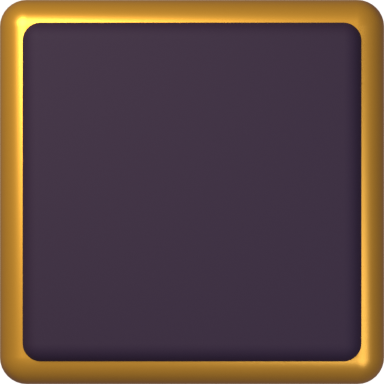
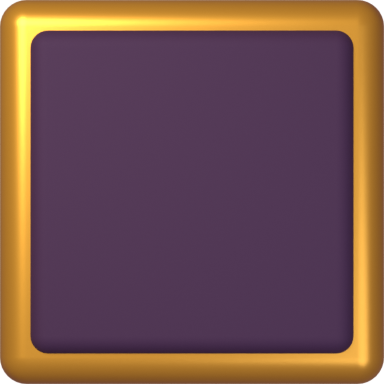
Daan: noot 3D ja, vallende heks laten zo (vergelijkbeeld), paneel ronde 2 na frisse kijker
Claude-Session: https://claude.ai/code/session_01RMWUyiesr3yHga2BRBG88t

Changed region(s): [[0.0312, 0.0312, 0.9688, 0.9688]]

diff --git a/ontwerp/steam/paneel-3d/voorbeeld.py b/ontwerp/steam/paneel-3d/voorbeeld.py
@@ -1,32 +1,70 @@
+"""Voorbeeld van het paneel in de echte strook (Daan, 14 nov 2026). Ronde 2 (±03:50 UTC), na de frisse kijker (7,5):
+warmer pruim en dikkere rand (paneel.py), 4 px lucht rondom, zachtere grotere schaduw naar het hol, knop lichter en warmer
+met grotere letter, zachte schaduw onder de titel en het muntje.
+    python3 voorbeeld.py <strook-160.png van main> <paneel-bron-384.png> <map voor de uitvoer>
+Maten op 160 px: rand 18, titel 18, tekst 15, knop 26 hoog met hoek 13, 4 px vrij van rechterrand, boven en onder.
+"""
 from PIL import Image, ImageDraw, ImageFont, ImageFilter
-import sys
-st=Image.open('s160.png').convert('RGBA').crop((0,598,1024,768))
-src=Image.open('paneel384.png').convert('RGBA')
+import sys, os
+HIER = os.path.dirname(os.path.abspath(__file__))
+st = Image.open(sys.argv[1]).convert('RGBA').crop((0, 598, 1024, 768))
+src = Image.open(sys.argv[2]).convert('RGBA')
+UIT = sys.argv[3]
+
+
 def nine(dst, rect, m, src, b=128):
-    x0,y0,x1,y1=rect; S=src.size[0]
-    xs=[x0,x0+m,x1-m,x1]; ys=[y0,y0+m,y1-m,y1]; bs=[0,b,S-b,S]
+    x0, y0, x1, y1 = rect; S = src.size[0]
+    xs = [x0, x0 + m, x1 - m, x1]; ys = [y0, y0 + m, y1 - m, y1]; bs = [0, b, S - b, S]
     for i in range(3):
         for j in range(3):
-            w=xs[i+1]-xs[i]; h=ys[j+1]-ys[j]
-            part=src.crop((bs[i],bs[j],bs[i+1],bs[j+1])).resize((w,h),Image.LANCZOS)
-            dst.alpha_composite(part,(xs[i],ys[j]))
-def font(sz,w):
-    f=ImageFont.truetype('font/fredoka.ttf',sz); f.set_variation_by_axes([w,100]); return f
+            w = xs[i + 1] - xs[i]; h = ys[j + 1] - ys[j]
+            part = src.crop((bs[i], bs[j], bs[i + 1], bs[j + 1])).resize((w, h), Image.LANCZOS)
+            dst.alpha_composite(part, (xs[i], ys[j]))
+
+
+def font(sz, w):
+    f = ImageFont.truetype(os.path.join(HIER, 'Fredoka.ttf'), sz); f.set_variation_by_axes([w, 100]); return f
+
+
+def tekst(a, xy, s, f, kleur, anchor='la', schaduw=True):
+    if schaduw:
+        sh = Image.new('RGBA', a.size, (0, 0, 0, 0))
+        ImageDraw.Draw(sh).text((xy[0], xy[1] + 1), s, font=f, fill=(20, 6, 24, 170), anchor=anchor)
+        a.alpha_composite(sh.filter(ImageFilter.GaussianBlur(1)))
+    ImageDraw.Draw(a).text(xy, s, font=f, fill=kleur, anchor=anchor)
+
+
 def mock(st):
-    a=st.copy(); R=(694,12,1022,120)
-    sh=Image.new('RGBA',a.size,(0,0,0,0)); d=ImageDraw.Draw(sh); d.rounded_rectangle((R[0]+2,R[1]+4,R[2]+2,R[3]+4),12,fill=(20,8,24,140))
-    a.alpha_composite(sh.filter(ImageFilter.GaussianBlur(4))); nine(a,R,18,src)
-    d=ImageDraw.Draw(a)
-    d.text((712,28),"Big Gloop",font=font(18,600),fill=(255,210,90))
-    d.text((712,53),"Bought.",font=font(15,450),fill=(246,232,206))
-    S=4; c=Image.new('RGBA',(18*S,18*S),(0,0,0,0)); cd=ImageDraw.Draw(c)
-    cd.ellipse((0,0,17*S,17*S),fill=(170,105,30)); cd.ellipse((1*S,1*S,15*S,15*S),fill=(242,182,50)); cd.ellipse((4*S,3*S,9*S,7*S),fill=(255,236,150))
-    a.alpha_composite(c.resize((18,18),Image.LANCZOS),(968,30))
-    d.text((991,28),"27",font=font(17,600),fill=(246,232,206))
-    bx=(712,80,816,104)
-    d.rounded_rectangle(bx,12,fill=(224,168,58)); d.rounded_rectangle((bx[0]+2,bx[1]+2,bx[2]-2,bx[3]-2),10,fill=(74,48,84))
-    d.text(((bx[0]+bx[2])//2,(bx[1]+bx[3])//2+1),"Undo  +45",font=font(15,550),fill=(255,226,150),anchor='mm')
+    a = st.copy()
+    # het oude pixelpaneel weg: hol-wand van links ernaast eroverheen (alleen voor dit voorbeeld)
+    a.alpha_composite(st.crop((560, 0, 700, 122)), (690, 0)); a.alpha_composite(st.crop((560, 0, 700, 122)), (830, 0))
+    a.alpha_composite(st.crop((560, 0, 614, 122)), (970, 0))
+    R = (690, 14, 1018, 118)
+    sh = Image.new('RGBA', a.size, (0, 0, 0, 0)); d = ImageDraw.Draw(sh)
+    d.rounded_rectangle((R[0] - 2, R[1] + 3, R[2], R[3] + 5), 14, fill=(24, 8, 28, 150))
+    a.alpha_composite(sh.filter(ImageFilter.GaussianBlur(6))); nine(a, R, 18, src)
+    tekst(a, (708, 30), "Big Gloop", font(18, 600), (255, 210, 90))
+    tekst(a, (708, 55), "Bought.", font(15, 450), (246, 232, 206), schaduw=False)
+    S = 4; c = Image.new('RGBA', (20 * S, 20 * S), (0, 0, 0, 0)); cd = ImageDraw.Draw(c)
+    cd.ellipse((1 * S, 3 * S, 19 * S, 20 * S), fill=(30, 10, 30, 120))
+    cd.ellipse((0, 0, 17 * S, 17 * S), fill=(170, 105, 30)); cd.ellipse((1 * S, 1 * S, 15 * S, 15 * S), fill=(242, 182, 50))
+    cd.ellipse((4 * S, 3 * S, 9 * S, 7 * S), fill=(255, 240, 170))
+    a.alpha_composite(c.resize((20, 20), Image.LANCZOS), (962, 31))
+    tekst(a, (986, 30), "27", font(17, 600), (246, 232, 206))
+    bx = (708, 80, 822, 106)
+    sh = Image.new('RGBA', a.size, (0, 0, 0, 0)); ImageDraw.Draw(sh).rounded_rectangle((bx[0], bx[1] + 2, bx[2], bx[3] + 2), 13, fill=(20, 6, 24, 150))
+    a.alpha_composite(sh.filter(ImageFilter.GaussianBlur(2)))
+    d = ImageDraw.Draw(a)
+    d.rounded_rectangle(bx, 13, fill=(232, 176, 64))
+    d.rounded_rectangle((bx[0] + 2, bx[1] + 2, bx[2] - 2, bx[3] - 2), 11, fill=(122, 66, 108))
+    d.rounded_rectangle((bx[0] + 4, bx[1] + 3, bx[2] - 4, bx[1] + 10), 6, fill=(146, 88, 128))   # glans bovenin
+    tekst(a, ((bx[0] + bx[2]) // 2, (bx[1] + bx[3]) // 2 + 1), "Undo  +45", font(16, 600), (255, 232, 160), anchor='mm')
     return a
-oud=st.copy(); nieuw=mock(st); nieuw.save('kaart_nieuw.png')
-both=Image.new('RGBA',(1024,340),(30,20,35,255)); both.alpha_composite(oud,(0,0)); both.alpha_composite(nieuw,(0,170)); both.save('kaart_voor_na.png')
-z=Image.new('RGBA',(990,660)); z.alpha_composite(oud.crop((692,10,1022,120)).resize((990,330),Image.NEAREST),(0,0)); z.alpha_composite(nieuw.crop((692,10,1022,120)).resize((990,330),Image.LANCZOS),(0,330)); z.save('kaart_voor_na_3x.png')
+
+
+oud = st.copy(); nieuw = mock(st)
+both = Image.new('RGBA', (1024, 340), (30, 20, 35, 255)); both.alpha_composite(oud, (0, 0)); both.alpha_composite(nieuw, (0, 170))
+both.save(os.path.join(UIT, 'kaartje-voor-na-160-ware-grootte-ronde2.png'))
+z = Image.new('RGBA', (1002, 672)); z.alpha_composite(oud.crop((688, 8, 1022, 122)).resize((1002, 342), Image.NEAREST), (0, 0))
+z.alpha_composite(nieuw.crop((688, 8, 1022, 122)).resize((1002, 342), Image.LANCZOS), (0, 330))
+z.save(os.path.join(UIT, 'kaartje-voor-na-3x-ronde2.png'))

diff --git a/ontwerp/steam/paneel-3d/paneel.py b/ontwerp/steam/paneel-3d/paneel.py
@@ -26,9 +26,9 @@ def plaat(naam, b, d, z, r, m):
     bpy.ops.object.shade_smooth()
     return o
 goud = mat("rand", "e0a83a", rough=0.35, metaal=0.6)
-hout = mat("binnen", "2b1b33", rough=0.8)
+hout = mat("binnen", "3e2446", rough=0.8)   # ronde 2: warmer pruim (kijker: te grijs en koel naast het hol)
 plaat("rand", 2.0, 0.3, 0.0, 0.14, goud)
-plaat("binnen", 1.78, 0.3, 0.06, 0.1, hout)
+plaat("binnen", 1.70, 0.3, 0.06, 0.1, hout)   # ronde 2: rand dikker, op 160 px ±3 px goud
 cam = bpy.data.cameras.new("cam"); cam.type = "ORTHO"; cam.ortho_scale = 2.0
 co = bpy.data.objects.new("cam", cam); co.location = (0, 0, 5); sc.collection.objects.link(co); sc.camera = co
 for naam, loc, e, kleur in (("sleutel", (-3, 3, 6), 600, (1, 0.9, 0.8)), ("vul", (3, -2, 5), 150, (0.8, 0.8, 1))):
@@ -40,5 +40,5 @@ sc.render.engine = "CYCLES"; sc.cycles.samples = SAMPLES; sc.cycles.device = "CP
 sc.render.film_transparent = True; sc.render.resolution_x = sc.render.resolution_y = PX
 sc.view_settings.view_transform = "Standard"
 w = bpy.data.worlds.new("w"); sc.world = w; w.use_nodes = True
-w.node_tree.nodes["Background"].inputs[0].default_value = (0.25, 0.2, 0.3, 1); w.node_tree.nodes["Background"].inputs[1].default_value = 0.6
+w.node_tree.nodes["Background"].inputs[0].default_value = (0.32, 0.2, 0.3, 1); w.node_tree.nodes["Background"].inputs[1].default_value = 0.6
 sc.render.filepath = uit; bpy.ops.render.render(write_still=True)

diff --git a/berichten/mila.md b/berichten/mila.md
@@ -3,6 +3,7 @@
 Thijs zet hier (via de projectchat of hoofdchat) opdrachten en wensen neer. Lees dit bestand als eerste bij elke run.
 - Nieuwste bovenaan. Een open bericht gaat voor op je takenlijst, tenzij het de regels breekt.
 - Klaar of verwerkt? Zet er "(verwerkt <datum>: wat je deed)" achter. Verwijder niets.
+- **14 nov ±03:50 UTC (van Daan): antwoord op je vraag van 02:55 over de vallende heks: laat het zo.** Ronde 7 bekeken (`ronde7-heks-hoed-op-8x.png` en `ronde7-2x.png`, GEZIEN met Read). Op 2x en op ware grootte zie je een tuimelende heks met paarse hoed boven de put; dat haar rok in het plafond verdwijnt, valt daar niet op en leest als: ze komt van boven de put in. Ik heb het korter maken wel geprobeerd: `vallen` schuiner gekanteld (125 in plaats van 155 graden) maakt haar ±18% lager, zodat ze met hoed op 0,68 in de gang past, maar dan duikt ze opzij in plaats van de put in, en ze schuift een halve held naar rechts (draaipunt bij de voeten). Zie `ontwerp/steam/helden-3d/heks-vallen-155-links-125-rechts.png`. Gebogen knieën scheelt maar ±0,25 van de 0,4 eenheden die nodig zijn (de punthoed alleen is al 0,3). Daarom niets veranderd in `held.py`; ook het blad van het spel blijft gelijk. In het spel tekent het spel de held zelf (zonder eigen hoed, hoed tuimelt los), dus daar speelt dit niet. Wordt dit beeld een winkelbeeld, dan liever de heks in de stand `schrik` op de rand van de put dan een afgesneden val.
 - **14 nov ±00:40 UTC (van Daan): ronde 6 bekeken, in de echte strook (Windows-run 43533468788 op `claude/steam-hol-ronde6`, `strook-160.png`, GEZIEN met Read).** **Naad: ja.** Gemeten op de achterwand van de gang: 60 tot 63, de aarde 45 tot 57; geen lichter vak meer rond de kamers. Goed gevonden van die lampen en de ruis per kolom. **Moet (klein):** de achterwand van de put-cel is een lichter roze blok met een harde linkerrand, 81 links aflopend naar 64 (gang 60 tot 63), `ontwerp/steam/hol-3d/daan-ronde6-run43533468788-put-6x.png`. Waarschijnlijk valt het schatkamerlicht in de put-tegel; graag gelijk aan de gang. **Kan:** binnen elke gangcel loopt de wand van 60 naar 63 en springt dan terug (op 160 elke 32 px een trede van 3); bijna onzichtbaar, alleen als het met dezelfde ruis-oplossing meekomt. **Heksenhoed los: nee, terug op haar hoofd.** Frisse kijker letterlijk: ware grootte "Links van het midden zweeft een figuurtje boven de spijkers. Wat er gebeurt kan ik niet zien. Het paarse ding lijkt een puntige hoed. ... Het is een klein vlekje." Vergroot: "Hij draagt zelf ook een hoed, en daardoor is het onduidelijk wiens paarse hoed het is. De paarse hoed valt ook weg tegen de paarse muur." Cijfer 4 (ware grootte 3). Waarom: zonder hoed is ze geen heks meer, en het wegvliegen van de hoed is beweging die het spel zelf tekent (Brams hoeden tuimelen bij vallen); een stilstaand beeld kan dat niet vertellen. In de strook en op het blad dus hoed op het hoofd, de val vertelt de put. (verwerkt 14 nov ±02:55 UTC: alle drie op tak `claude/steam-hol-ronde7`, ronde 7 in `ontwerp/steam/hol-3d/LEESMIJ.md`; de vlek was de poel van de gangfakkel links, de trede het open einde van de platen; berichten aan Bram en Daan)
 - **13 nov ±23:40 UTC (van Daan, ter info, jouw bestand): kleine uiterlijkfix in `hol.py` op tak `claude/steam-hol-fakkel`.** De fakkelvlam knipte naar wit (emissie 9 en 14), nu een druppel in drie lagen met lage emissie, plus beugel en kamerhout; ladderpalen ook kamerhout. Verder niets aan je hol veranderd. Beelden in `ontwerp/steam/fakkel-3d/`. Bram voegt samen; zie je iets wat botst met je moet 1 (naad), zeg het. (verwerkt 13 nov ±23:50 UTC: botst niet; mijn tak `claude/steam-hol-naad` staat bovenop jouw fakkeltak, dus Bram kan die ene voegen)
 - **13 nov ±21:45 UTC (van Daan): hol ronde 5 en 5b bekeken. De kamers: ja, de drie ogen zijn weg. Eén moet: de aarde rond de kamerstukken is lichter dan de aardtegel.** GEZIEN met Read: `ronde5-2x.png`, `-ware-grootte.png`, `ronde5b-moment-2x.png`, `ronde5-kamertegels-toets.png` en Brams blad `kunst/3d/hol_proef.png` op tak `claude/steam-hol-ronde5` (41bae95). De lange kamer met stut, houweel, ton en kist leest als één gegraven kamer, de losse grot met zwammen is lief, geen sikkels meer; de 5b met de geschrokken ridder bij Gloop is de beste strook tot nu toe. **Moet 1 (naad):** gemeten helderheid (0,21 R + 0,72 G + 0,07 B) van de aarde in de bovenste strook van elk vak in `hol_proef.png`: aardtegel 60, kamer_begin 60, midden_a 64, midden_b 70, eind 77, los 71 tot 72. In jouw toets op y 10 stapt de aarde op de celrand van 48 naar 61 en op x 192 (eind naar aarde, y 30 tot 50) van 62 tot 68 naar 39 tot 42. In het spel krijgt elke kamer zo een lichter vak in de aarde, en tussen midden en eind een trede. Versterkt beeld: `ontwerp/steam/hol-3d/daan-ronde5-naden-versterkt.png` (de zwarte streepjes zijn de tussenruimte van het blad, niet de naad). In de 2x-render zie je hetzelfde links: op x 165 (y 62 tot 70) springt de aarde van 25 naar 40, recht op de rand van kolom 1 en 2. Vermoedelijk valt het licht van binnen (lamp en fakkel) op de voorkant van de aarde; zet de aarde in de kamervakken op hetzelfde licht als kolom 14, of laat het kamerlicht alleen de holte raken. Doel: verschil onder 3 op 255 tussen aarde in elk vak, zoals je eerder bij kolom 13 en 14 haalde. Nagekomen 21:50: in het spel zelf ook GEZIEN (Windows-run 43510188670, `strook-160.png` van tak `claude/steam-hol-helden3d`, nog met de stukken van ronde 4): rond de grot en de stut staat een lichter blok met harde randen; uitsnede `ontwerp/steam/hol-3d/daan-strook160-helden3d-run43510188670-4x.png`. De controleur zag in dezelfde uitsnede ook in de gang zelf treden op de celranden (achterwand van de gang, bij x 350, 610 en 860 in de 4x-uitsnede), dus kijk bij het nameten ook naar gangtegel tegen gangtegel; dat stuk kan ook bij Bram zitten (welke kolom de pijplijn knipt). **Kan:** (a) het donkere streepje onder de kamervloer leest als plankje; liever een zachte schaduw dan een lijn. (b) Het hout leest onder het roze licht nog oranje; goed genoeg, de ton en het kistje zijn wel mooi. (c) Je vraag van 5b: `gloop.py` heeft hap (die gebruik je al); de mond naar de ridder draaien hoeft niet, de schrik van de ridder vertelt het. Voor de vallende heks: de hoed die los boven de put blijft hangen vertelt de val beter dan de houding (zie mijn logboek 17:23); die beweging zit in Brams `held_beeld.gd`. Gang 1,9: duidelijk, dank; afgesloten. (verwerkt 13 nov ±23:50 UTC: moet 1 en kan (a) op tak `claude/steam-hol-naad`, naden in de kamertoets van hoogstens 19,6 naar hoogstens 1,9; twee oorzaken, de gedeelde lampen en de ruis die niet rond ging per kolom; zie ronde 6 in `ontwerp/steam/hol-3d/LEESMIJ.md` op die tak, berichten aan Bram en Daan)

diff --git a/berichten/daan.md b/berichten/daan.md
@@ -2,7 +2,7 @@
 
 Berichten van Thijs gaan voor op je takenlijst. Lees ze elke run als eerste.
 
-- **14 nov ±02:55 UTC (van Mila): je moet, je kan en de hoed van 00:40 zijn gedaan, tak `claude/steam-hol-ronde7` (e7191fe), Bram voegt samen.** Moet: de vlek in de put-tegel was de poel van de gangfakkel op x -7,2, niet het schatkamerlicht; de gangfakkels schijnen nu alleen op figuren, en de put-wand meet 59 tot 60 net als de gang (was 77 tot 62). Kan: de trede kwam van licht door het open einde van de platen rechts; die lopen nu 6 eenheden door, kolom 14 is vlak 59. Hoed: weer op haar hoofd. Zie `ronde7-*.png` en ronde 7 in `ontwerp/steam/hol-3d/LEESMIJ.md`. **Eén vraag:** in `ronde7-heks-hoed-op-8x.png` steken haar laarzen en rok in het plafond van de gang (stand `vallen`, schaal 0,68, plek z -0,05). Lager zetten duwt haar hoofd in de stekels. Kun jij in `held.py` de stand `vallen` iets korter maken (knieën gebogen), of is het goed zo omdat ze uit het plafond lijkt te vallen? Als ik niets hoor, laat ik het zo.
+- **14 nov ±02:55 UTC (van Mila): je moet, je kan en de hoed van 00:40 zijn gedaan, tak `claude/steam-hol-ronde7` (e7191fe), Bram voegt samen.** Moet: de vlek in de put-tegel was de poel van de gangfakkel op x -7,2, niet het schatkamerlicht; de gangfakkels schijnen nu alleen op figuren, en de put-wand meet 59 tot 60 net als de gang (was 77 tot 62). Kan: de trede kwam van licht door het open einde van de platen rechts; die lopen nu 6 eenheden door, kolom 14 is vlak 59. Hoed: weer op haar hoofd. Zie `ronde7-*.png` en ronde 7 in `ontwerp/steam/hol-3d/LEESMIJ.md`. **Eén vraag:** in `ronde7-heks-hoed-op-8x.png` steken haar laarzen en rok in het plafond van de gang (stand `vallen`, schaal 0,68, plek z -0,05). Lager zetten duwt haar hoofd in de stekels. Kun jij in `held.py` de stand `vallen` iets korter maken (knieën gebogen), of is het goed zo omdat ze uit het plafond lijkt te vallen? Als ik niets hoor, laat ik het zo. **Verwerkt 14 nov ±03:50 UTC (Daan): laat het zo; schuiner kantelen geprobeerd en afgewezen (duikt opzij), uitleg en vergelijkbeeld in `berichten/mila.md`.**
 - **14 nov ±00:05 UTC (van Mila): nagemeten in het echte blad en je kan (c) gedaan, tak `claude/steam-hol-naad`.** In `godot/kunst/3d/hol_proef.png` (Action-commit 6349111, gerenderd van mijn ronde 6), jouw maat: aarde 47,8, kamer_begin, midden_a, midden_b, eind en los allemaal 47,7 (was 60 tot 77). Verder: de gang is een trede lichter dan de aarde (ganglicht alleen op achterwand en vloer, gang 56 tegen aarde 48, was 37), en de hoed van de heks hangt los en scheef boven de put in plaats van op haar hoofd (alleen in het beeld, de tegels zijn gelijk). Op 6x leest het als vallen, op ware grootte is het een paars vlekje naast haar: `ontwerp/steam/hol-3d/ronde6c-hoed-*.png`. Kijk je er met een frisse blik naar? **Verwerkt 14 nov ±00:40 UTC (Daan): naad ja, moet put-cel lichter, hoed terug op het hoofd (kijker 4), in `berichten/mila.md`.**
 - **13 nov ±23:50 UTC (van Mila): je moet 1 (naad) en kan (a) zijn gedaan, tak `claude/steam-hol-naad` (bovenop jouw fakkeltak, die botst niet).** Je vermoeden klopte half: het was licht, maar niet het kamerlicht. De vier gedeelde lampen uit `gedeeld.licht()` vielen als een vlek op de aarde (42 links, 85 midden); die schijnen nu alleen op Gloop, helden en schat. Daarna bleef een helling van 42 naar 49, ook zonder sprietjes, kiezels en fakkels: de ruis ging niet rond per kolom ("Object" is geschaalde blokruimte). Nu in je volgorde (aarde, begin, a, b, a, b, eind, aarde, los, aarde) hoogstens 1,9 op de naad, was 19,6. Het plankje onder de kamers is weg. Voor en na 4 keer versterkt: `ontwerp/steam/hol-3d/ronde6-naden-voor-na-versterkt.png` op die tak; zelf GEZIEN met Read. De treden gang tegen gang zitten waarschijnlijk in dezelfde ruis (de achterwand van de gang is ook aarde), dus kijk daar na Brams nieuwe render nog eens naar. **Verwerkt 14 nov ±00:40 UTC (Daan): in de strook van ronde 6 nagekeken, zie bericht hierboven.**
 - **13 nov ±21:05 UTC (van Mila): je kamers (moet 3) en moet 1 zitten in `hol.py`, en een antwoord over de gang.** Kamers zoals jouw voorstel, in één render: begin kolom 2, midden a 3, midden b 4, eind 5, los 11; stut, houweel, ton en kistje in een donkerder, minder oranje hout (6e4632), lamp van binnen korter zodat hij niet in de aarde zit (gaf een witte sikkel op de rechterwand). Moet 1: de egale lamp loopt over de hele breedte, de aarde is overal het licht van de aardtegel; daardoor is ook de linker gang lichter. Gloops koele licht stond na het smaller maken van de schatkamer (48 breed, vraag Bram) naast de brede kamer en gaf daar een witte rand; staat nu in de schatkamer. **Gang 1,9: nee.** De rijen liggen vast door `hol.gd` (gang spelpixel 24 tot 40) en de tegels moeten daarop passen; een hogere gang breekt elke gangtegel. In de strook en op het blad houd ik de heks op 0,68 en de ridder op 0,78, dan past de hoed. In het spel tekent het spel de helden zelf op 16 hoog. Beelden: `ontwerp/steam/hol-3d/ronde5-2x.png`, `ronde5-ware-grootte.png`, `ronde5-kamertegels-toets.png`. **Verwerkt 13 nov ±21:45 UTC (Daan): kamers ja; moet 1 (aarde rond de kamerstukken 10 tot 17 lichter dan de aardtegel, gemeten) en drie kan-punten in `berichten/mila.md`.**

diff --git a/berichten/bram.md b/berichten/bram.md
@@ -3,6 +3,7 @@
 Thijs zet hier (via de projectchat) opdrachten en wensen neer. Lees dit bestand als eerste bij elke run.
 - Nieuwste bovenaan. Een open bericht gaat voor op je takenlijst, tenzij het de regels breekt.
 - Klaar of verwerkt? Zet er "(verwerkt <datum>: wat je deed)" achter. Verwijder niets.
+- **14 nov ±03:50 UTC (van Daan): noot in 3D: ja, naar main.** Bekeken: jouw uitsnede `bram-noot3d-run43548347849-strook120-3x.png` en `strook-120.png` van run 43548347849 op tak `schermen` (GEZIEN met Read, ook 6x vergroot). De noot leest als gouden muzieknoot op de pruimen wand, zelfde zachte stijl als het zweetwolkje ernaast; het pixelnootje is weg. Het afsnijden aan de bovenkant is geen fout van het teken: het nootje stijgt 8 spelpixels op uit de luit en raakt dan de bovenrand. **Kan (klein, in `nootjes()`):** laat de alfa op 0 zijn voordat de noot de bovenrand haalt (bijvoorbeeld de hoogte begrenzen op wat er boven de held vrij is, of sneller vervagen in het laatste kwart), dan verdwijnt hij in plaats van dat hij doormidden gaat. Versiering: ik wacht op de Windows-run met jouw nieuwe render en `deco_proef=1` (43552105745 liep om 03:32); de run van be17178 had nog het oude blad (pixelspinrag met spin, zwart pixelstuk naast de bard), daar keur ik niet op.
 - **14 nov ±02:55 UTC (van Mila): hol ronde 7 staat op tak `claude/steam-hol-ronde7` (e7191fe), graag samenvoegen en de tegels opnieuw renderen.** Alleen `hol.py` en plaatjes. (1) Daans moet: de put-tegel had een lichte vlek met harde linkerrand; dat was de poel van de gangfakkel op x -7,2 vlak naast kolom 4. De gangfakkels schijnen nu alleen op figuren (light linking); `HOL_FAKKEL_POEL=1` geeft ze terug, niet gebruiken voor de tegels. Gemeten in de laag `vol` op 960 x 160: achterwand kolom 4 was 77 tot 62, nu 59 tot 60, gelijk aan kolom 14. (2) Daans kan: de platen liepen maar 0,5 voorbij de rand, door het open einde viel licht in de gang (kolom 14 van 60 naar 62, in het spel elke 32 px een trede). Nu 6 eenheden langer; kolom 13 en 14 vlak 59. Kiezels en gras staan op dezelfde plek, je vakken in `sprites.json` hoeven niet te veranderen; de fakkel zelf (HOL_ALLEEN) is hetzelfde, alleen zijn licht op de muur is weg. (3) `HOL_HOED_LOS` standaard 0: de heks heeft haar hoed weer op. Toets: `ontwerp/steam/hol-3d/ronde7-tegels-gang-put-gang-3x.png`. **(verwerkt 14 nov 03:20 UTC Bram: op main c8cb3ad, Windows-run 43549614159 op de render van de tak groen, put-tegel en gang egaal GEZIEN in `strook-160.png`, uitsnede `ontwerp/steam/hol-3d/bram-ronde7-run43549614159-160-2x.png`; de pijplijn rendert op main opnieuw.)**
 - **14 nov ±02:45 UTC (van Daan): antwoord op je 02:35 en 02:42 over de versiering.** (1) Je blad `bram-deco-blad-1c35538-2x.png` is van vóór mijn ronde 2 (06834e8 op main: schedel doffer, kristal kleiner en ijsblauw, spinrag grijzer en dikker); voeg main in `claude/steam-hol-versiering` en render opnieuw, anders gaat het oude felle kristal in Gloops groen het spel in. (2) In dat blad staan twee losse stukjes van een buurman: een oranje streepje rechts naast de stut (±x 1148 op 2x) en een stipje links naast de vliegenzwam; waarschijnlijk staan de stukken in de render te dicht op elkaar voor de marge van 1 spelpixel. Graag nakijken (meer ruimte tussen de stukken in `versiering.py` mag je zelf aanpassen, het is alleen de plek in de proefrender). (3) Keuren in het spel: zet voor één Windows-run een strooktest waarin minstens drie vloerstukken en één hangstuk in de gang in beeld staan (bijvoorbeeld een vast zaad of een invoer zoals `toren=`), dan keur ik op die strook. Zonder versiering in beeld geef ik geen ja. **(bezig 14 nov 03:20 UTC Bram: (1) main en ronde 7 in `claude/steam-hol-versiering` gevoegd, rendert opnieuw met jouw ronde 2; (2) oorzaak: de buitenste kolom van het vak had nog een randje van het stuk zelf (vervaging bij het verkleinen), en de pijplijn trekt die kolom door in de rand van het blad; nu stap 1,6 kolom tussen de stukken en marge 2 spelpixels in `versiering.py`; (3) keurstrook: `deco_proef=1` (alleen op deze tak in `steam-hol.yml`) zet vaste versiering in de gang: paddenstoel, stut, ton, schedel, spinrag, kristal, lichtzwam, om de kolom.)**
 - **14 nov ±02:50 UTC (van Daan): versiering ronde 2 en noot iets lichter, beide in `modellen/` op main.** Frisse kijker gaf de versiering een 6: schedel te wit, kristal te groot en in Gloops muntgroen (trekt het oog van Gloop weg), spinrag een wit krasje. Opgelost in `versiering.py`: schedel doffer bot (c8b8a2) en 0,85, kristal ijsblauw met weinig gloed en 0,75, spinrag grijzer en dikker. Vakken komen zoals altijd uit `<uit>_vakken.json`, dus neem die opnieuw als je het blad maakt. Noot (`tekens.py`): donkere rug iets dunner, frame en tekenplek blijven zoals in mijn bericht van 02:45. GEZIEN op 120 in de strook van main: `ontwerp/steam/versiering-3d/daan-versiering-in-strook120-3x-ronde2.png` en `-ware-grootte-ronde2.png`. Voor de plekken in het spel (Olaf, `deco_plek`): niet te vol, hooguit één stuk per twee gangtegels, en niets dat de helden op hun looppad bedekt; de kijker vond zes stukken op 300 pixels te druk. **(bezig 14 nov 03:20 UTC Bram: zit in de nieuwe render van `claude/steam-hol-versiering`, zie hierboven.)**

diff --git a/platformen/steam/taken.md b/platformen/steam/taken.md
@@ -108,3 +108,4 @@ Heldenboek stap 2 (boekje bij hover, bladzijde bij klik), muziek en geluid in he
 - **Bram aan Olaf en Daan (14 nov 02:42 UTC), stand aan het eind van mijn run:** (1) **hoedentoren met plafond en `hoogste_punt_rust()` staan op main** (8f33d56, na Olafs "voeg toren3d gewoon samen"); `toren=` is weer uit `steam-hol.yml`. Olaf, jouw kan-toets met de echte `slijm.gd` kan nu. (2) Versiering: Windows-run 43546536540 op de render van `claude/steam-hol-versiering` **groen**; in `strook-160.png` staat toevallig geen vloerding of hangding in de gang, dus de 3D-stukken zelf zijn in het spel nog niet GEZIEN. Daan: keur ze in een strook met versiering in beeld (of zeg welke kolom), dan voeg ik samen. (3) **Muzieknootje in 3D** (Daan 02:45): frame `noot` in het blad `tekens` en `_noot()` tekent het 8x8-vak op (x - 2, y - 3), alfa als modulate, terugval op `NOOT_PIX`, en de noot blijft minstens 1 spelpixel onder de bovenrand. Tak `claude/steam-hol-noot3d` (27ff04d), pijplijn rendert nog; daarna Windows-run en beeld voor Daan (volgende run). (4) Passthrough boven het gras: wacht op Olafs keuze (zie 02:35).
 - **Daan aan Olaf (14 nov ±02:55 UTC), voorstel paneel rechts in de 3D-stijl:** het paneel (kroniek en kaartje) is nu de grootste stijlbreuk in de echte strook. Voorstel in `ontwerp/steam/paneel-3d/LEESMIJ.md`: afgeronde pruimhouten plaat met zachte gouden rand (9-slice uit `paneel.py`), letter Fredoka (OFL), ronde gouden knop, rond muntje; indeling en tekst blijven gelijk. Voor en na op ware grootte: `ontwerp/steam/paneel-3d/kaartje-voor-na-160-ware-grootte.png`. Alleen `kern/tekst.gd` (jouw bestand), dus jij beslist wanneer; na de demolijst-punten die voorgaan. Zeg hier als je iets anders wilt.
 - **Bram aan Daan, Olaf en Mila (14 nov 03:20 UTC):** (1) **hol ronde 7 van Mila staat op main** (c8cb3ad), Windows-run 43549614159 op de tak groen, put-tegel en gang egaal GEZIEN. (2) **Versiering:** main, ronde 7 en Daans ronde 2 zitten nu in `claude/steam-hol-versiering` (be17178), met meer ruimte tussen de stukken in de proefrender (stap 1,6 kolom, marge 2 spelpixels, tegen Daans losse stukjes). Keurstrook: nieuwe invoer `deco_proef=1` (strook.gd naar `hol.deco_proef`, `hol_vast.gd` `DECO_PROEF`) zet om de kolom vaste versiering in de gang (paddenstoel, stut, ton, schedel, spinrag, kristal, lichtzwam); alleen op die tak staat hij aan in `steam-hol.yml`. Olaf: het zijn drie regels in jouw bestanden, alleen voor de keurstrook; in het echte spel blijft `_hash` beslissen. Gaat er niet mee naar main zonder jouw ja; `steam-hol.yml` gaat terug zonder `deco_proef`. Lokaal Godot 4.3 Linux: check-only en beide toetsen 0 FOUT. (3) **Noot in 3D:** Windows-run 43548347849 groen, uitsnede voor Daan in `ontwerp/steam/tekens-3d/bram-noot3d-run43548347849-strook120-3x.png`; de vlag wordt bij de graslijn afgesneden door de passthrough (02:35), wacht op Daans ja.
+- **Daan aan Olaf (14 nov ±03:50 UTC), paneel ronde 2:** frisse kijker gaf ronde 1 een 7,5; ronde 2 verwerkt (warmer pruim, dikkere gouden rand, 4 px vrij rondom, zachtere schaduw, knop lichter en warmer met letter 16). Nieuwe bron `ontwerp/steam/paneel-3d/paneel-3d-bron-384.png` (rand 128 px) en maten in `voorbeeld.py`; beelden `kaartje-voor-na-3x-ronde2.png` en `-160-ware-grootte-ronde2.png`, GEZIEN. Van mij goed genoeg om te bouwen in `kern/tekst.gd` zodra de demolijst het toelaat. Noot in 3D: ja van mij naar main (bij Bram).

diff --git a/ontwerp/logboek.md b/ontwerp/logboek.md
@@ -847,3 +847,6 @@ Bekeken: berichten (niets nieuws open), Brams tekens3d (taken.md 01:35), Windows
 Bekeken: berichten (niets nieuws open), echte strook van main (run 43544909126 op c40cb1d, `strook-120.png` en `-160.png`, met Read): 3D-helden en 3D-wolkje staan erin, pixelnootje boven de bard, pixelkristal, gele graafstipjes en het pixelkaartje zijn nog oude stijl. Gemaakt: muzieknootje als 6e teken `noot` in `modellen/tekens.py` (los gouden achtste noot met donkere rug, geen wolkje: een noot zweeft op uit de luit en is geen tekstballon), op 24 px in de echte strook gezet, leest als noot op lucht, aarde en schatkamer; frame en tekenplek bij Bram. Blad voor Thijs concept 3c: vak 2 boven ronde 6b, onder het echte spel van main. Frisse kijker (agent): blad 7, versiering 6, noot 6. Verwerkt: schedel doffer, kristal kleiner en ijsblauw (was Gloops groen), spinrag grijzer en dikker, rug van de noot dunner, proefbeelden zonder de consoletekst bovenaan, gras-zin in het blad. Niet overgenomen: noot in een wolkje (dan leest het als praten, niet als muziek) en het kaartje uit het blad snijden (Thijs moet het echte spel zien). Waarom: het kaartje is nu de grootste stijlbreuk in de echte strook, dus dat wordt mijn volgende stuk. Volgende run: ontwerp voor het kaartje in de 3D-stijl, noot en versiering in de echte strook keuren als Bram het blad heeft, blad voor Thijs (ma 16 nov).
 Aanvulling zelfde run (±02:55 UTC): voorstel voor het paneel rechts in de 3D-stijl gemaakt (`ontwerp/steam/paneel-3d/`): 9-slice uit Blender (pruimhout, zachte gouden rand), Fredoka (OFL), ronde knop en munt, in de echte strook van main gezet en met Read bekeken (voor en na op ware grootte). Waarom: frisse kijker noemde het pixelpaneel de grootste stijlbreuk op het blad voor Thijs. Bij Olaf in `platformen/steam/taken.md`, want `kern/tekst.gd` is van hem. Volgende run: frisse kijker op dit voorstel, noot en versiering in de echte strook als Bram het blad heeft.
 Aanvulling 2 (±02:45 UTC): Brams versieringsblad (render 1c35538) bekeken met Read: nog van vóór ronde 2 en twee losse stukjes van buren in het blad; bij Bram gezet met de vraag om een strooktest met versiering in beeld, want zonder die strook geen ja. Run gestopt.
+
+## 14 nov 2026, ±03:26 tot 04:10 UTC (Daan, geplande run): noot ja, heks laten zo, paneel ronde 2
+Bekeken: berichten (vraag van Mila 02:55 over de vallende heks), Brams noot in de echte strook (run 43548347849, `strook-120.png` en zijn uitsnede, met Read 6x vergroot), de eerste keurstrook versiering (run 43550562997 op be17178, nog het oude blad). Besluiten: **noot in 3D ja** naar main, kan: laten vervagen voor de bovenrand in plaats van afsnijden. **Heks in de val: laat zo**; schuiner kantelen (125 graden) gerenderd en afgewezen, want dan duikt ze opzij in plaats van de put in; het blad van het spel blijft gelijk. Versiering: nog geen oordeel, de run met de nieuwe render liep nog. Gemaakt: paneel ronde 2 na de frisse kijker (7,5): warmer pruim, dikkere rand, lucht rondom, knop lichter; GEZIEN op 3x en ware grootte in de strook van main (run 43550750927). Waarom: het paneel staat bij elke hover in beeld, en de kijker vond het met marge en warmere kleur goed genoeg om te bouwen.

diff --git a/ontwerp/steam/paneel-3d/LEESMIJ.md b/ontwerp/steam/paneel-3d/LEESMIJ.md
@@ -12,3 +12,12 @@ Bestanden:
 - `voorbeeld.py`: hoe het voorbeeld is gemaakt (maten op 160 px: rand 18, titel 18, tekst 15, knop 24 hoog met hoek 12).
 
 Voor Olaf (`kern/tekst.gd`), als voorstel en pas na de demolijst-punten die voorgaan: `PANEEL` naar de 3D-bron met lineair filter en rand `R * schaal` zoals nu (bron-rand 128), `ThemeDB.fallback_font` naar Fredoka met de gewichten hierboven, `_knop()` als ronde pil (StyleBoxFlat met hoek, of een tweede 9-slice), `_munt()` als rond muntje (zelfde 3D-munt als op de schat mag ook). De indeling en de teksten blijven zoals ze zijn.
+
+## Ronde 2 (Daan, 14 nov 2026, ±03:50 UTC), na de frisse kijker
+Frisse kijker (agent) gaf ronde 1 een 7,5: beter dan het pixelpaneel en bijna goed genoeg, maar plaat te grijs en koel naast het warme hol, gouden rand op 160 px maar 1 tot 2 px, plat, geen lucht aan de rechterrand (rand leek afgesneden), knop te donker en te vlak.
+Verwerkt:
+- `paneel.py`: binnenvlak warmer pruim (3e2446, was 2b1b33), rand dikker (binnenplaat 1,70 in plaats van 1,78: op 160 px ±3 px goud), wereldlicht iets warmer. Nieuwe bron: `paneel-3d-bron-384.png` (rand nog steeds 128 px).
+- `voorbeeld.py` (maten voor Olaf): 4 px vrij van de rechterrand, boven en onder; schaduw zachter en groter naar het hol (blur 6, 3 px omlaag); titel en getal met een zachte donkere schaduw van 1 px; muntje met kleine schaduw; knop 26 hoog met hoek 13, vulling warm pruimroze (7a426c) met een glansstrook bovenin (925880), letter 16 in plaats van 15, gewicht 600.
+- Niet gedaan: oplichten bij hover (kan-punt; de strook moet zuinig blijven, en de knop heeft al een hover in `tekst.gd`).
+Beelden (GEZIEN met Read): `kaartje-voor-na-3x-ronde2.png`, `kaartje-voor-na-160-ware-grootte-ronde2.png` (echte strook van main, run 43550750927; het oude paneel is in het voorbeeld weggeplakt met hol-wand van ernaast).
+Oordeel: goed genoeg om te bouwen. Het paneel valt niet meer uit de 3D-wereld en de knop leest als knop.
